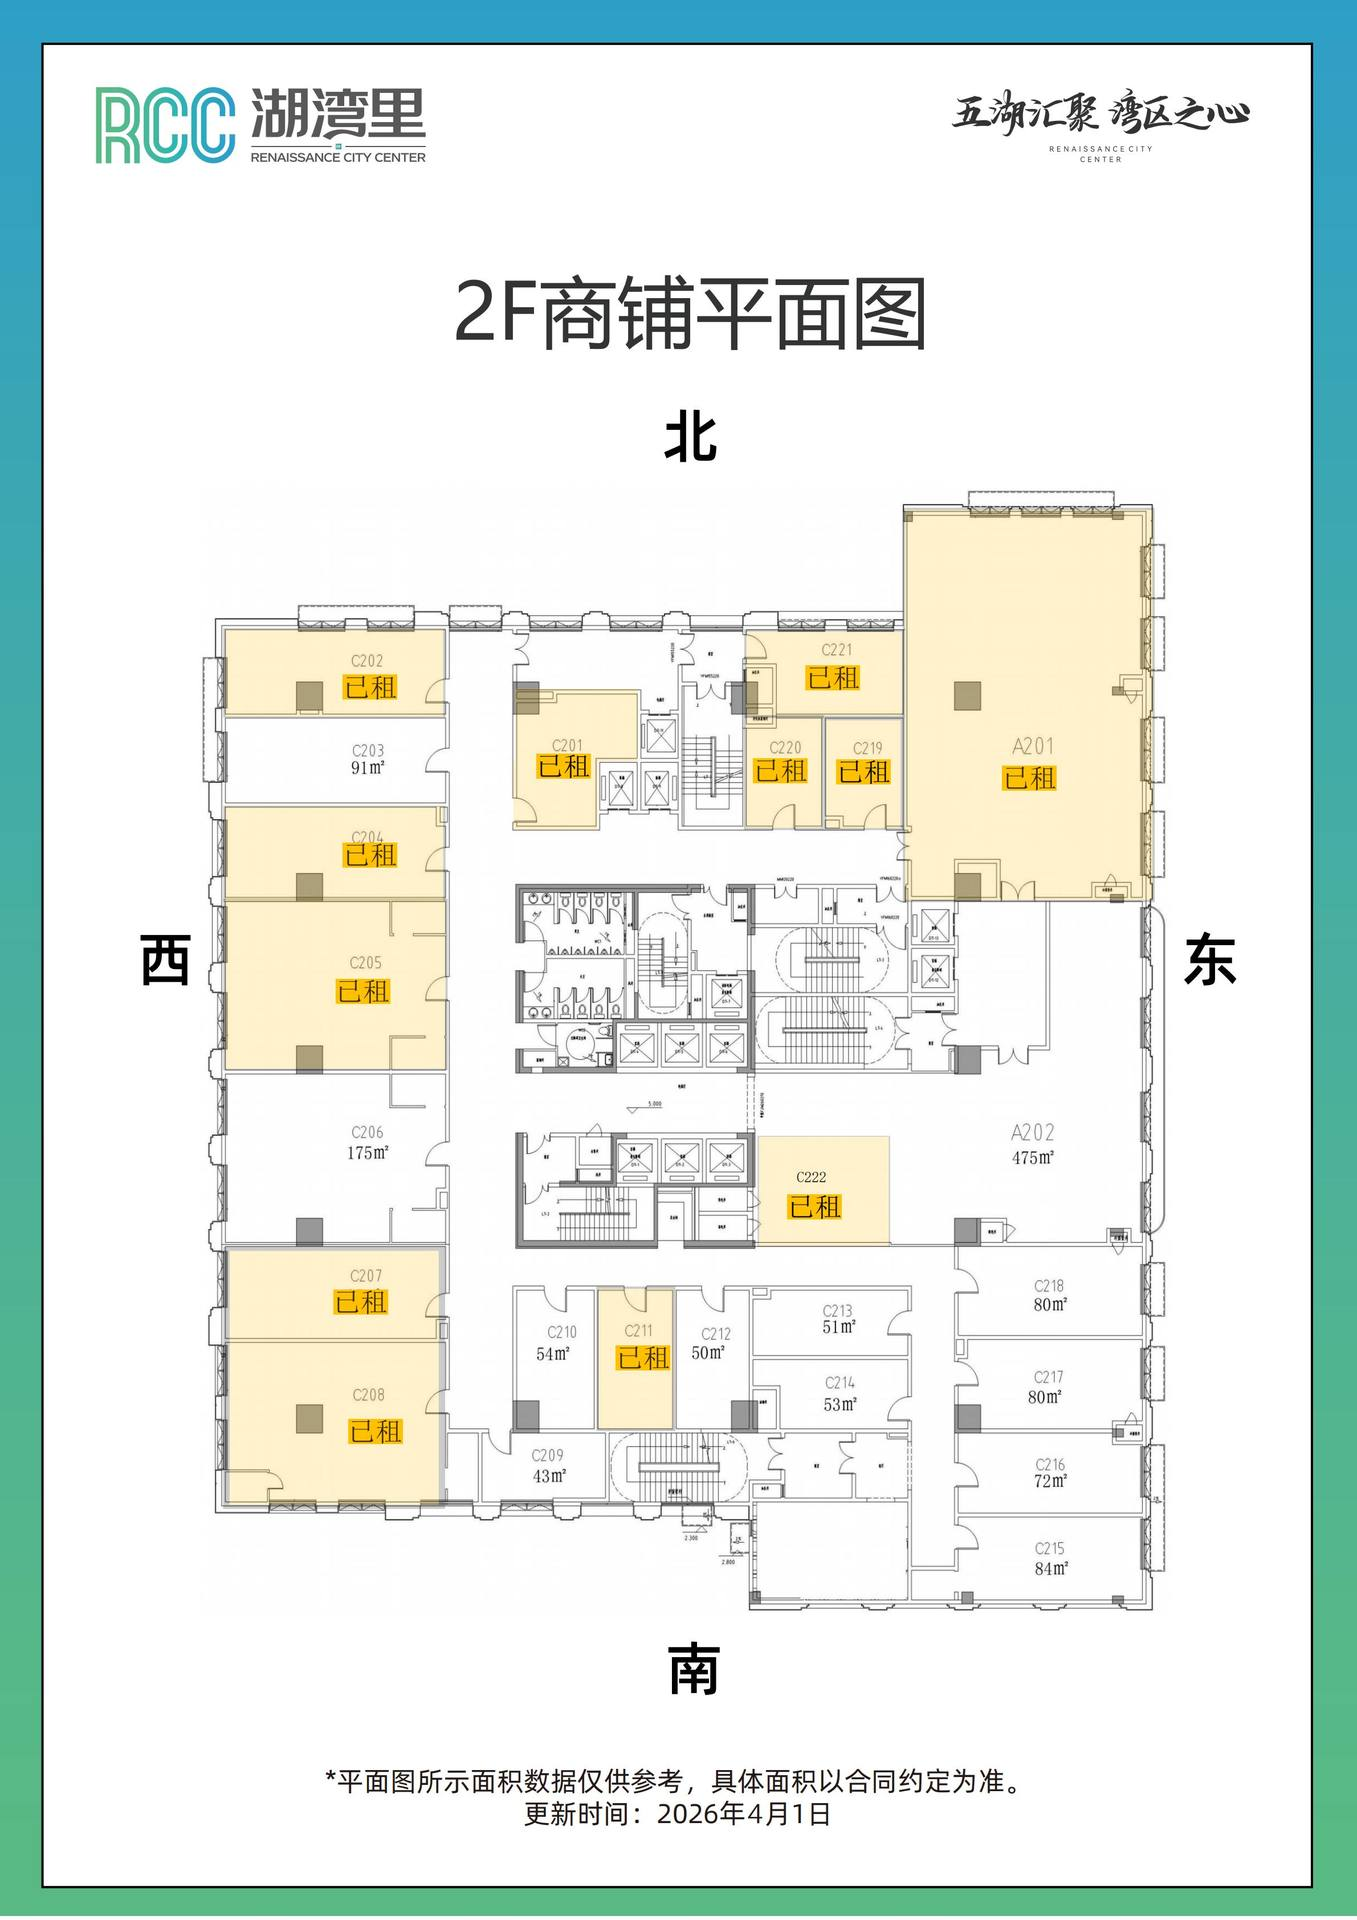
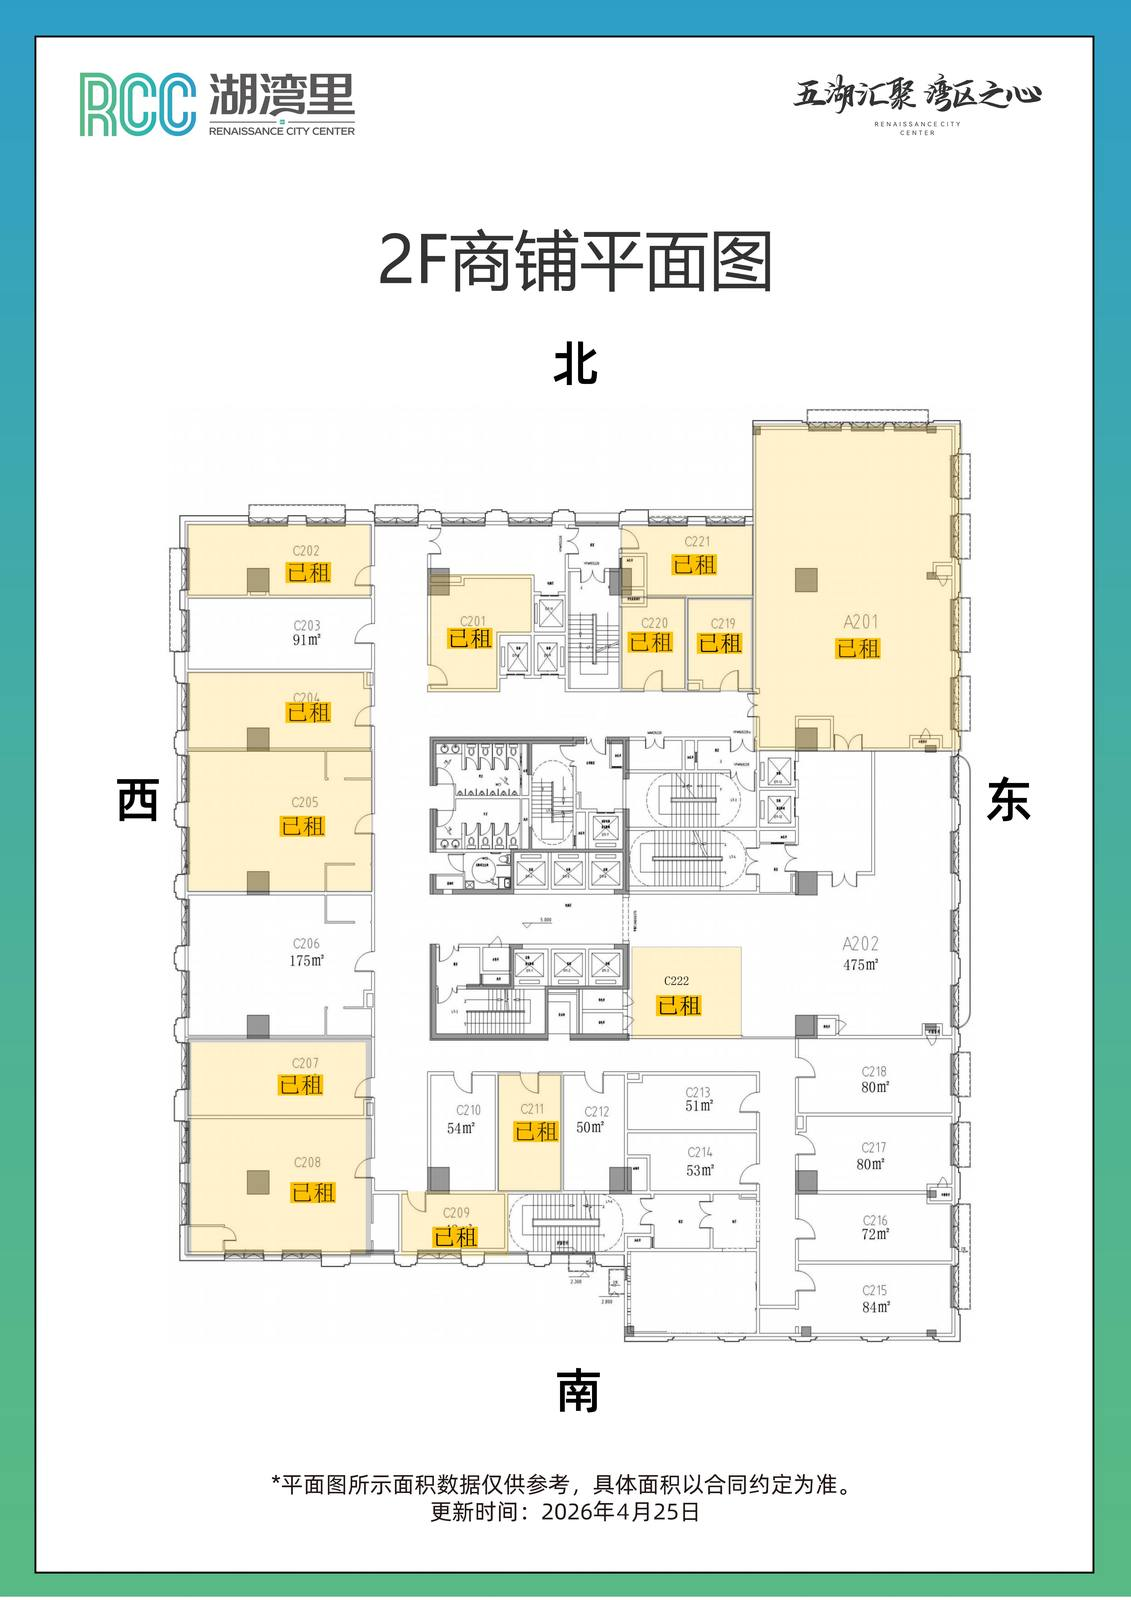
更新1F/2F/12F/20F楼层图，移除已租单元1213/2012/2013

diff --git a/index.html b/index.html
@@ -472,7 +472,7 @@
 
 <script>
 const floorsOrder = ["1", "2", "4", "5", "6", "7", "8", "9", "10", "12", "13A", "15", "16", "17", "18", "19", "20", "22"];
-const floorUnits = {"5": [{"unit": "510", "area": 201.0, "price": 55.0, "special": 10800, "note": "双边采光 2+1"}], "6": [{"unit": "602", "area": 177.0, "price": 55.0, "special": 9500, "note": "双边采光 2+1"}, {"unit": "615", "area": 178.0, "price": 55.0, "special": 9500, "note": "双边采光 2+1"}], "8": [{"unit": "806", "area": 215.0, "price": 58.0, "special": 12000, "note": "方正好用大通间"}, {"unit": "807-1", "area": 176.0, "price": 55.0, "special": 9200, "note": "双边采光"}], "10": [{"unit": "1003", "area": 222.0, "price": 55.0, "special": 11800, "note": "双边采光 2+1"}, {"unit": "1006", "area": 246.0, "price": 58.0, "special": 13500, "note": "方正户型 1+1"}, {"unit": "1010", "area": 228.0, "price": 55.0, "special": 12200, "note": "双边采光 1+1"}], "12": [{"unit": "1207", "area": 192.0, "price": 56.0, "special": 10200, "note": "双边采光 2+1"}, {"unit": "1213", "area": 167.0, "price": 56.0, "special": 9000, "note": "双边采光 2+1"}], "13A": [{"unit": "13A02", "area": 177.0, "price": 56.0, "special": 9500, "note": "双边采光 2+1"}, {"unit": "13A15", "area": 178.0, "price": 56.0, "special": 9500, "note": "双边采光 2+1"}], "16": [{"unit": "1605+1606", "area": 386.0, "price": 56.0, "special": 20800, "note": "带装修 4+1"}, {"unit": "1609-2", "area": 168.0, "price": 56.0, "special": 9000, "note": "双边采光"}], "17": [{"unit": "1702", "area": 263.0, "price": 57.0, "special": 13800, "note": "双边采光"}], "18": [{"unit": "1802", "area": 177.0, "price": 57.0, "special": 9600, "note": "双边采光 2+1"}, {"unit": "1809", "area": 201.0, "price": 58.0, "special": 11000, "note": "方正好用大通间"}, {"unit": "1810", "area": 201.0, "price": 57.0, "special": 11000, "note": "双边采光 2+1"}, {"unit": "1815", "area": 178.0, "price": 57.0, "special": 9600, "note": "双边采光 2+1"}], "19": [{"unit": "1907", "area": 179.0, "price": 62.0, "special": 10500, "note": "双边采光赠阳台"}, {"unit": "1916", "area": 218.0, "price": 60.0, "special": 12500, "note": "方正好用大通间"}], "20": [{"unit": "2002", "area": 157.0, "price": 60.0, "special": 9000, "note": "双边采光"}, {"unit": "2007", "area": 185.0, "price": 60.0, "special": 10500, "note": "双边采光"}, {"unit": "2008", "area": 186.0, "price": 62.0, "special": 10800, "note": "方正好用大通间"}, {"unit": "2009", "area": 201.0, "price": 62.0, "special": 11800, "note": "方正好用大通间"}, {"unit": "2012", "area": 121.0, "price": 63.0, "special": 7300, "note": "高层北向小面积"}, {"unit": "2013", "area": 120.0, "price": 63.0, "special": 7300, "note": "高层北向小面积"}, {"unit": "2015", "area": 160.0, "price": 60.0, "special": 9200, "note": "双边采光"}]};
+const floorUnits = {"5": [{"unit": "510", "area": 201.0, "price": 55.0, "special": 10800, "note": "双边采光 2+1"}], "6": [{"unit": "602", "area": 177.0, "price": 55.0, "special": 9500, "note": "双边采光 2+1"}, {"unit": "615", "area": 178.0, "price": 55.0, "special": 9500, "note": "双边采光 2+1"}], "8": [{"unit": "806", "area": 215.0, "price": 58.0, "special": 12000, "note": "方正好用大通间"}, {"unit": "807-1", "area": 176.0, "price": 55.0, "special": 9200, "note": "双边采光"}], "10": [{"unit": "1003", "area": 222.0, "price": 55.0, "special": 11800, "note": "双边采光 2+1"}, {"unit": "1006", "area": 246.0, "price": 58.0, "special": 13500, "note": "方正户型 1+1"}, {"unit": "1010", "area": 228.0, "price": 55.0, "special": 12200, "note": "双边采光 1+1"}], "12": [{"unit": "1207", "area": 192.0, "price": 56.0, "special": 10200, "note": "双边采光 2+1"}], "13A": [{"unit": "13A02", "area": 177.0, "price": 56.0, "special": 9500, "note": "双边采光 2+1"}, {"unit": "13A15", "area": 178.0, "price": 56.0, "special": 9500, "note": "双边采光 2+1"}], "16": [{"unit": "1605+1606", "area": 386.0, "price": 56.0, "special": 20800, "note": "带装修 4+1"}, {"unit": "1609-2", "area": 168.0, "price": 56.0, "special": 9000, "note": "双边采光"}], "17": [{"unit": "1702", "area": 263.0, "price": 57.0, "special": 13800, "note": "双边采光"}], "18": [{"unit": "1802", "area": 177.0, "price": 57.0, "special": 9600, "note": "双边采光 2+1"}, {"unit": "1809", "area": 201.0, "price": 58.0, "special": 11000, "note": "方正好用大通间"}, {"unit": "1810", "area": 201.0, "price": 57.0, "special": 11000, "note": "双边采光 2+1"}, {"unit": "1815", "area": 178.0, "price": 57.0, "special": 9600, "note": "双边采光 2+1"}], "19": [{"unit": "1907", "area": 179.0, "price": 62.0, "special": 10500, "note": "双边采光赠阳台"}, {"unit": "1916", "area": 218.0, "price": 60.0, "special": 12500, "note": "方正好用大通间"}], "20": [{"unit": "2002", "area": 157.0, "price": 60.0, "special": 9000, "note": "双边采光"}, {"unit": "2007", "area": 185.0, "price": 60.0, "special": 10500, "note": "双边采光"}, {"unit": "2008", "area": 186.0, "price": 62.0, "special": 10800, "note": "方正好用大通间"}, {"unit": "2009", "area": 201.0, "price": 62.0, "special": 11800, "note": "方正好用大通间"}, {"unit": "2015", "area": 160.0, "price": 60.0, "special": 9200, "note": "双边采光"}]};
 const floorImages = {"1": "https://raw.githubusercontent.com/wangmeiyi411830/RCC/main/floor_images/floor_1.jpg", "2": "https://raw.githubusercontent.com/wangmeiyi411830/RCC/main/floor_images/floor_2.jpg", "4": "https://raw.githubusercontent.com/wangmeiyi411830/RCC/main/floor_images/floor_4.jpg", "5": "https://raw.githubusercontent.com/wangmeiyi411830/RCC/main/floor_images/floor_5.jpg", "6": "https://raw.githubusercontent.com/wangmeiyi411830/RCC/main/floor_images/floor_6.jpg", "7": "https://raw.githubusercontent.com/wangmeiyi411830/RCC/main/floor_images/floor_7.jpg", "8": "https://raw.githubusercontent.com/wangmeiyi411830/RCC/main/floor_images/floor_8.jpg", "9": "https://raw.githubusercontent.com/wangmeiyi411830/RCC/main/floor_images/floor_9.jpg", "10": "https://raw.githubusercontent.com/wangmeiyi411830/RCC/main/floor_images/floor_10.jpg", "12": "https://raw.githubusercontent.com/wangmeiyi411830/RCC/main/floor_images/floor_12.jpg", "13A": "https://raw.githubusercontent.com/wangmeiyi411830/RCC/main/floor_images/floor_13A.jpg", "15": "https://raw.githubusercontent.com/wangmeiyi411830/RCC/main/floor_images/floor_15.jpg", "16": "https://raw.githubusercontent.com/wangmeiyi411830/RCC/main/floor_images/floor_16.jpg", "17": "https://raw.githubusercontent.com/wangmeiyi411830/RCC/main/floor_images/floor_17.jpg", "18": "https://raw.githubusercontent.com/wangmeiyi411830/RCC/main/floor_images/floor_18.jpg", "19": "https://raw.githubusercontent.com/wangmeiyi411830/RCC/main/floor_images/floor_19.jpg", "20": "https://raw.githubusercontent.com/wangmeiyi411830/RCC/main/floor_images/floor_20.jpg", "22": "https://raw.githubusercontent.com/wangmeiyi411830/RCC/main/floor_images/floor_22.jpg"};
 const unitPhotos = {"1003": ["https://raw.githubusercontent.com/wangmeiyi411830/RCC/main/unit_images/1003-1.png", "https://raw.githubusercontent.com/wangmeiyi411830/RCC/main/unit_images/1003-2.jpg", "https://raw.githubusercontent.com/wangmeiyi411830/RCC/main/unit_images/1003-3.jpg", "https://raw.githubusercontent.com/wangmeiyi411830/RCC/main/unit_images/1003-4.jpg"], "1006": ["https://raw.githubusercontent.com/wangmeiyi411830/RCC/main/unit_images/1006-1.png", "https://raw.githubusercontent.com/wangmeiyi411830/RCC/main/unit_images/1006-2.jpg", "https://raw.githubusercontent.com/wangmeiyi411830/RCC/main/unit_images/1006-3.jpg", "https://raw.githubusercontent.com/wangmeiyi411830/RCC/main/unit_images/1006-4.jpg", "https://raw.githubusercontent.com/wangmeiyi411830/RCC/main/unit_images/1006-5.jpg"], "1010": ["https://raw.githubusercontent.com/wangmeiyi411830/RCC/main/unit_images/1010-1.png", "https://raw.githubusercontent.com/wangmeiyi411830/RCC/main/unit_images/1010-2.jpg", "https://raw.githubusercontent.com/wangmeiyi411830/RCC/main/unit_images/1010-3.jpg"], "1207": ["https://raw.githubusercontent.com/wangmeiyi411830/RCC/main/unit_images/1207-1.png", "https://raw.githubusercontent.com/wangmeiyi411830/RCC/main/unit_images/1207-2.jpg", "https://raw.githubusercontent.com/wangmeiyi411830/RCC/main/unit_images/1207-3.jpg", "https://raw.githubusercontent.com/wangmeiyi411830/RCC/main/unit_images/1207-4.jpg"], "1212": ["https://raw.githubusercontent.com/wangmeiyi411830/RCC/main/unit_images/1212-1.png", "https://raw.githubusercontent.com/wangmeiyi411830/RCC/main/unit_images/1212-2.jpg", "https://raw.githubusercontent.com/wangmeiyi411830/RCC/main/unit_images/1212-3.jpg"], "1213": ["https://raw.githubusercontent.com/wangmeiyi411830/RCC/main/unit_images/1213-1.png", "https://raw.githubusercontent.com/wangmeiyi411830/RCC/main/unit_images/1213-2.jpg", "https://raw.githubusercontent.com/wangmeiyi411830/RCC/main/unit_images/1213-3.jpg", "https://raw.githubusercontent.com/wangmeiyi411830/RCC/main/unit_images/1213-4.jpg"], "13A02": ["https://raw.githubusercontent.com/wangmeiyi411830/RCC/main/unit_images/13A02-1.png", "https://raw.githubusercontent.com/wangmeiyi411830/RCC/main/unit_images/13A02-3.jpg", "https://raw.githubusercontent.com/wangmeiyi411830/RCC/main/unit_images/13A02-4.jpg", "https://raw.githubusercontent.com/wangmeiyi411830/RCC/main/unit_images/13A02-5.jpg"], "13A15": ["https://raw.githubusercontent.com/wangmeiyi411830/RCC/main/unit_images/13A15-1.png", "https://raw.githubusercontent.com/wangmeiyi411830/RCC/main/unit_images/13A15-2.jpg", "https://raw.githubusercontent.com/wangmeiyi411830/RCC/main/unit_images/13A15-3.jpg", "https://raw.githubusercontent.com/wangmeiyi411830/RCC/main/unit_images/13A15-4.jpg", "https://raw.githubusercontent.com/wangmeiyi411830/RCC/main/unit_images/13A15-5.jpg"], "1605+1606": ["https://raw.githubusercontent.com/wangmeiyi411830/RCC/main/unit_images/1605+1606-1.png", "https://raw.githubusercontent.com/wangmeiyi411830/RCC/main/unit_images/1605+1606-2.jpg", "https://raw.githubusercontent.com/wangmeiyi411830/RCC/main/unit_images/1605+1606-3.jpg", "https://raw.githubusercontent.com/wangmeiyi411830/RCC/main/unit_images/1605+1606-4.jpg", "https://raw.githubusercontent.com/wangmeiyi411830/RCC/main/unit_images/1605+1606-5.jpg"], "1609-2": ["https://raw.githubusercontent.com/wangmeiyi411830/RCC/main/unit_images/1609-2-1.png", "https://raw.githubusercontent.com/wangmeiyi411830/RCC/main/unit_images/1609-2-2.jpg", "https://raw.githubusercontent.com/wangmeiyi411830/RCC/main/unit_images/1609-2-3.jpg"], "1702": ["https://raw.githubusercontent.com/wangmeiyi411830/RCC/main/unit_images/1702-1.png", "https://raw.githubusercontent.com/wangmeiyi411830/RCC/main/unit_images/1702-2.jpg", "https://raw.githubusercontent.com/wangmeiyi411830/RCC/main/unit_images/1702-3.jpg"], "1802": ["https://raw.githubusercontent.com/wangmeiyi411830/RCC/main/unit_images/1802-1.png", "https://raw.githubusercontent.com/wangmeiyi411830/RCC/main/unit_images/1802-2.jpg", "https://raw.githubusercontent.com/wangmeiyi411830/RCC/main/unit_images/1802-3.jpg", "https://raw.githubusercontent.com/wangmeiyi411830/RCC/main/unit_images/1802-4.jpg"], "1809": ["https://raw.githubusercontent.com/wangmeiyi411830/RCC/main/unit_images/1809-1.png", "https://raw.githubusercontent.com/wangmeiyi411830/RCC/main/unit_images/1809-2.jpg", "https://raw.githubusercontent.com/wangmeiyi411830/RCC/main/unit_images/1809-3.jpg"], "1810": ["https://raw.githubusercontent.com/wangmeiyi411830/RCC/main/unit_images/1810-1.png", "https://raw.githubusercontent.com/wangmeiyi411830/RCC/main/unit_images/1810-2.jpg", "https://raw.githubusercontent.com/wangmeiyi411830/RCC/main/unit_images/1810-3.jpg", "https://raw.githubusercontent.com/wangmeiyi411830/RCC/main/unit_images/1810-4.jpg"], "1815": ["https://raw.githubusercontent.com/wangmeiyi411830/RCC/main/unit_images/1815-1.png", "https://raw.githubusercontent.com/wangmeiyi411830/RCC/main/unit_images/1815-2.jpg", "https://raw.githubusercontent.com/wangmeiyi411830/RCC/main/unit_images/1815-3.jpg", "https://raw.githubusercontent.com/wangmeiyi411830/RCC/main/unit_images/1815-4.jpg", "https://raw.githubusercontent.com/wangmeiyi411830/RCC/main/unit_images/1815-5.jpg"], "1902": ["https://raw.githubusercontent.com/wangmeiyi411830/RCC/main/unit_images/1902-1.png", "https://raw.githubusercontent.com/wangmeiyi411830/RCC/main/unit_images/1902-2.jpg", "https://raw.githubusercontent.com/wangmeiyi411830/RCC/main/unit_images/1902-3.jpg", "https://raw.githubusercontent.com/wangmeiyi411830/RCC/main/unit_images/1902-4.jpg"], "1904": ["https://raw.githubusercontent.com/wangmeiyi411830/RCC/main/unit_images/1904-1.png", "https://raw.githubusercontent.com/wangmeiyi411830/RCC/main/unit_images/1904-2.jpg", "https://raw.githubusercontent.com/wangmeiyi411830/RCC/main/unit_images/1904-3.jpg"], "1907": ["https://raw.githubusercontent.com/wangmeiyi411830/RCC/main/unit_images/1907-1.png", "https://raw.githubusercontent.com/wangmeiyi411830/RCC/main/unit_images/1907-2.jpg", "https://raw.githubusercontent.com/wangmeiyi411830/RCC/main/unit_images/1907-3.jpg", "https://raw.githubusercontent.com/wangmeiyi411830/RCC/main/unit_images/1907-4.jpg", "https://raw.githubusercontent.com/wangmeiyi411830/RCC/main/unit_images/1907-5.jpg"], "1916": ["https://raw.githubusercontent.com/wangmeiyi411830/RCC/main/unit_images/1916-1.png", "https://raw.githubusercontent.com/wangmeiyi411830/RCC/main/unit_images/1916-2.jpg", "https://raw.githubusercontent.com/wangmeiyi411830/RCC/main/unit_images/1916-3.jpg"], "2002": ["https://raw.githubusercontent.com/wangmeiyi411830/RCC/main/unit_images/2002-1.png", "https://raw.githubusercontent.com/wangmeiyi411830/RCC/main/unit_images/2002-2.jpg", "https://raw.githubusercontent.com/wangmeiyi411830/RCC/main/unit_images/2002-3.jpg"], "2007": ["https://raw.githubusercontent.com/wangmeiyi411830/RCC/main/unit_images/2007-1.png", "https://raw.githubusercontent.com/wangmeiyi411830/RCC/main/unit_images/2007-2.jpg", "https://raw.githubusercontent.com/wangmeiyi411830/RCC/main/unit_images/2007-3.jpg", "https://raw.githubusercontent.com/wangmeiyi411830/RCC/main/unit_images/2007-4.jpg"], "2008": ["https://raw.githubusercontent.com/wangmeiyi411830/RCC/main/unit_images/2008-1.png", "https://raw.githubusercontent.com/wangmeiyi411830/RCC/main/unit_images/2008-2.jpg", "https://raw.githubusercontent.com/wangmeiyi411830/RCC/main/unit_images/2008-3.jpg"], "2009": ["https://raw.githubusercontent.com/wangmeiyi411830/RCC/main/unit_images/2009-1.png", "https://raw.githubusercontent.com/wangmeiyi411830/RCC/main/unit_images/2009-2.jpg", "https://raw.githubusercontent.com/wangmeiyi411830/RCC/main/unit_images/2009-3.jpg"], "2012": ["https://raw.githubusercontent.com/wangmeiyi411830/RCC/main/unit_images/2012-1.png", "https://raw.githubusercontent.com/wangmeiyi411830/RCC/main/unit_images/2012-2.jpg", "https://raw.githubusercontent.com/wangmeiyi411830/RCC/main/unit_images/2012-3.jpg", "https://raw.githubusercontent.com/wangmeiyi411830/RCC/main/unit_images/2012-4.jpg"], "2013": ["https://raw.githubusercontent.com/wangmeiyi411830/RCC/main/unit_images/2013-1.png", "https://raw.githubusercontent.com/wangmeiyi411830/RCC/main/unit_images/2013-2.jpg", "https://raw.githubusercontent.com/wangmeiyi411830/RCC/main/unit_images/2013-3.jpg"], "2015": ["https://raw.githubusercontent.com/wangmeiyi411830/RCC/main/unit_images/2015-1.png", "https://raw.githubusercontent.com/wangmeiyi411830/RCC/main/unit_images/2015-2.jpg"], "504": ["https://raw.githubusercontent.com/wangmeiyi411830/RCC/main/unit_images/504-1.png", "https://raw.githubusercontent.com/wangmeiyi411830/RCC/main/unit_images/504-2.jpg", "https://raw.githubusercontent.com/wangmeiyi411830/RCC/main/unit_images/504-3.jpg"], "510": ["https://raw.githubusercontent.com/wangmeiyi411830/RCC/main/unit_images/510-1.png", "https://raw.githubusercontent.com/wangmeiyi411830/RCC/main/unit_images/510-2.jpg", "https://raw.githubusercontent.com/wangmeiyi411830/RCC/main/unit_images/510-3.jpg"], "602": ["https://raw.githubusercontent.com/wangmeiyi411830/RCC/main/unit_images/602-1.png", "https://raw.githubusercontent.com/wangmeiyi411830/RCC/main/unit_images/602-2.jpg", "https://raw.githubusercontent.com/wangmeiyi411830/RCC/main/unit_images/602-3.jpg"], "615": ["https://raw.githubusercontent.com/wangmeiyi411830/RCC/main/unit_images/615-1.png", "https://raw.githubusercontent.com/wangmeiyi411830/RCC/main/unit_images/615-2.jpg", "https://raw.githubusercontent.com/wangmeiyi411830/RCC/main/unit_images/615-3.jpg"], "806": ["https://raw.githubusercontent.com/wangmeiyi411830/RCC/main/unit_images/806-1.png", "https://raw.githubusercontent.com/wangmeiyi411830/RCC/main/unit_images/806-2.jpg"], "807-1": ["https://raw.githubusercontent.com/wangmeiyi411830/RCC/main/unit_images/807-1-1.png", "https://raw.githubusercontent.com/wangmeiyi411830/RCC/main/unit_images/807-1-2.jpg", "https://raw.githubusercontent.com/wangmeiyi411830/RCC/main/unit_images/807-1-3.jpg"]};
 
